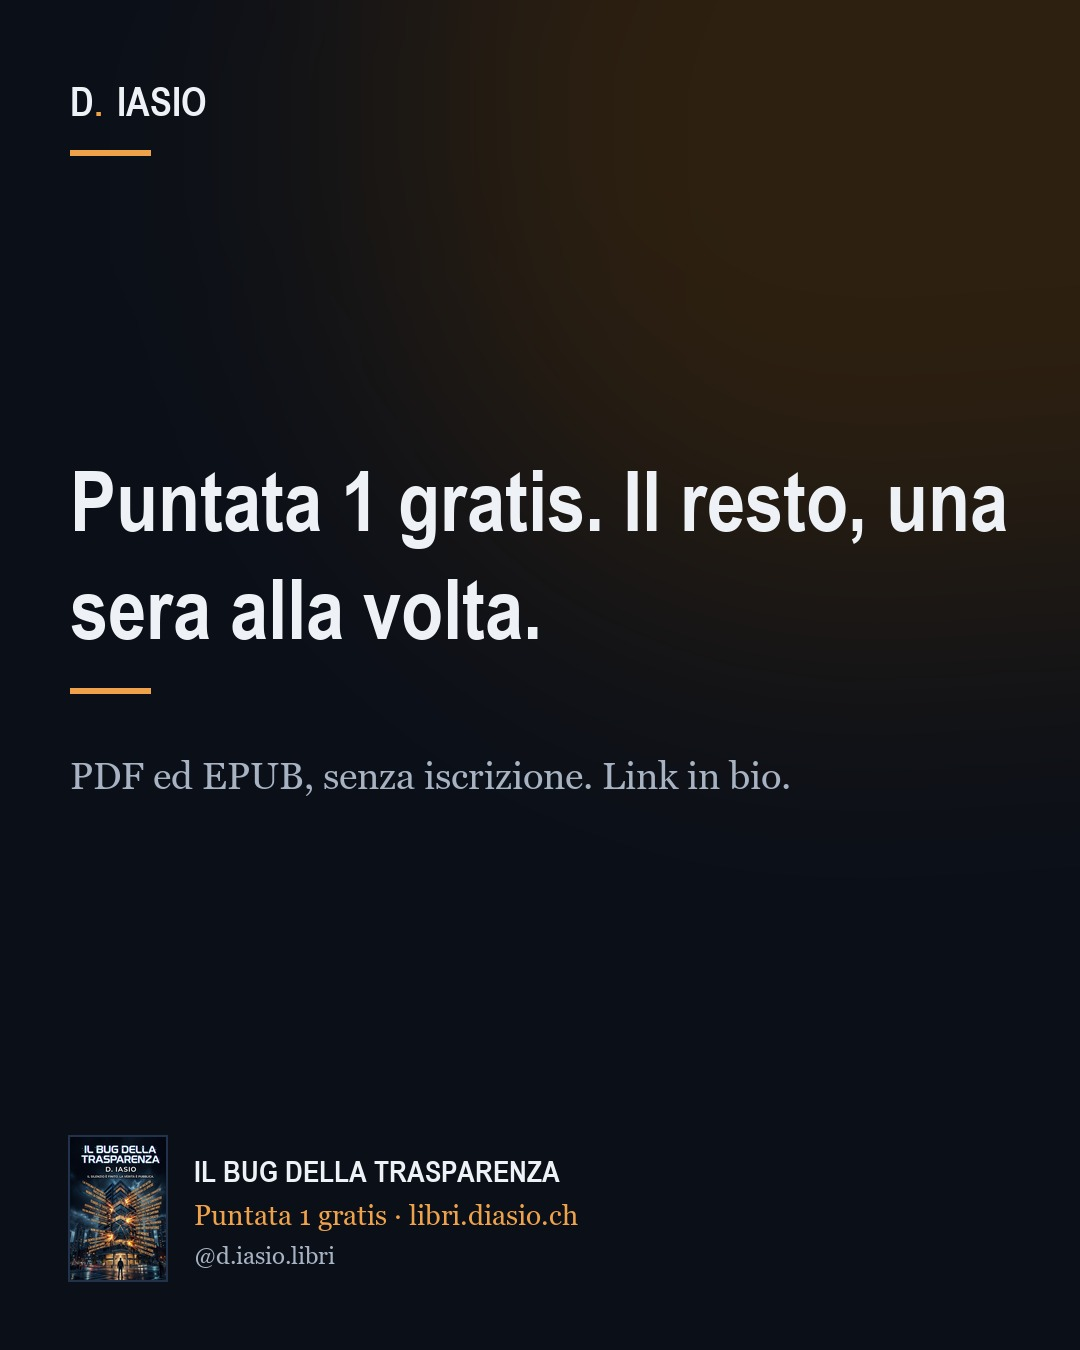
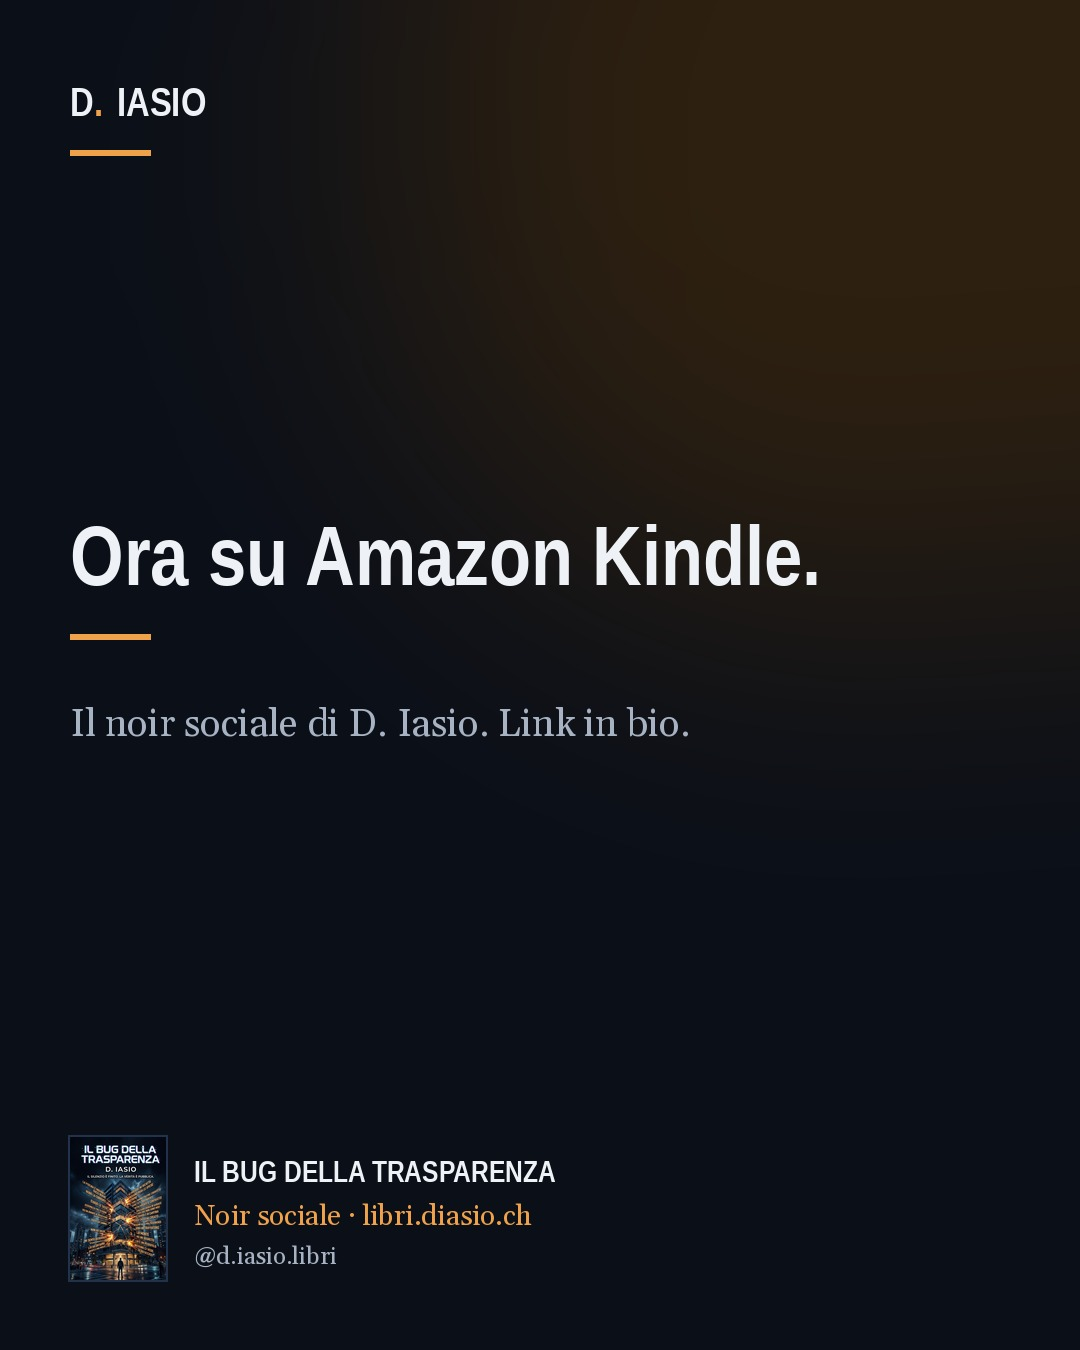
Social: grafiche 07 e 16 con invito a Amazon Kindle (senza puntate) (#37)
* Social: 07-bug-cta e 16-bug-spot con invito a Amazon Kindle

* Generatore: footer e CTA personalizzabili; testi dei post 07 e 16

* Grafiche 07-bug-cta e 16-bug-spot con invito a Amazon Kindle

diff --git a/social/tools/posts.py b/social/tools/posts.py
@@ -40,11 +40,11 @@ POSTS = [
       tags="#privacy #tecnologia #thriller #noir #narrativaitaliana",
       alt="Finta notifica dell’app Meridiana Life: Meridiana Life si è aggiornata. Benvenuti in Trasparenza Meridiana. Il Bug della Trasparenza."),
  dict(id="07-bug-cta", when="2026-10-18 20:00", seg="Lettori digitali (ebook) + amanti delle serie a puntate", book="bug", kind="hook",
-      text="Puntata 1 gratis. Il resto, una sera alla volta.",
-      sub="PDF ed EPUB, senza iscrizione. Link in bio.",
-      caption="Come una serie tv, ma da leggere: otto puntate, una sera alla volta.\nLa Puntata 1 de Il Bug della Trasparenza è gratis, in PDF o EPUB (va bene anche su Kindle). Nessuna iscrizione richiesta.\nLink in bio.",
-      tags="#ebook #kindle #epub #leggeregratis #noir",
-      alt="Grafica scura con la scritta: Puntata 1 gratis. Il resto, una sera alla volta. PDF ed EPUB, link in bio."),
+      text="Ora su Amazon Kindle.", foot="Noir sociale · libri.diasio.ch",
+      sub="Il noir sociale di D. Iasio. Link in bio.",
+      caption="Il Bug della Trasparenza, noir sociale di D. Iasio, è disponibile su Amazon Kindle.\nUn condominio d’élite, un’app che non dovrebbe sapere quello che sa, una giornalista che ha un motivo per essere lì.\nIl link è in bio.",
+      tags="#ebook #kindle #noir #romanzonoir #narrativaitaliana",
+      alt="Grafica scura con la scritta: Ora su Amazon Kindle. Il Bug della Trasparenza, il noir sociale di D. Iasio. Link in bio."),
  dict(id="08-oblio-levia", when="2026-10-20 19:30", seg="Tech/IA + pubblicità e brand", book="oblio", kind="brand", theme="amber",
       text="Levia.", tag="Il peso non è tuo.",
       sub="Lo slogan dell’azienda che estrae il dolore. L’Economia dell’Oblio, Puntata 1.",
@@ -97,8 +97,8 @@ POSTS = [
       tags="#distopia #fantascienza #blackmirror #thrillerpsicologico #narrativaitaliana",
       alt="Grafica scura con il titolo Certificazione di Vuoto e quattro righe sulla scansione semestrale del cervello. L’Economia dell’Oblio."),
  dict(id="16-bug-spot", when="2026-11-08 20:00", seg="Bookstagram (copertina e presentazione)", book="bug", kind="spot",
-      tag="Noir sociale · 8 puntate. Il silenzio è finito. La verità è pubblica.",
-      caption="Il Bug della Trasparenza, di D. Iasio. Noir sociale in otto puntate: un condominio d’élite, un’app che non dovrebbe sapere quello che sa, una giornalista che ha un motivo per essere lì.\nLa Puntata 1 è gratis, in PDF o EPUB. Link in bio.",
+      tag="Un noir sociale di D. Iasio.", cta="Disponibile su Amazon Kindle · link in bio",
+      caption="Il Bug della Trasparenza, di D. Iasio. Noir sociale: un condominio d’élite, un’app che non dovrebbe sapere quello che sa, una giornalista che ha un motivo per essere lì.\nDisponibile su Amazon Kindle. Link in bio.",
       tags="#bookstagram #libriconsigliati #noir #narrativaitaliana #autoreemergente",
       alt="Copertina de Il Bug della Trasparenza: un palazzo notturno attraversato da frasi arancioni."),
  dict(id="17-oblio-strano", when="2026-11-10 19:30", seg="Psicologia/memoria (tono rispettoso)", book="oblio", kind="quote", who=OBL,

diff --git a/social/tools/generate.py b/social/tools/generate.py
@@ -49,7 +49,7 @@ def header(d, theme):
     d.rectangle((70, 150, 150, 155), fill=acc)
 
 
-def footer(im, d, book, theme):
+def footer(im, d, book, theme, line="Puntata 1 gratis · libri.diasio.ch"):
     amber = theme == "amber"
     ink, sub, mut = (DARK, DARK, DMUT) if amber else (INK, AMBER, MUTED)
     cw, ch = 96, 143
@@ -58,7 +58,7 @@ def footer(im, d, book, theme):
     d.rectangle((68, y - 2, 70 + cw + 1, y + ch + 1), outline=DARK if amber else LINE, width=2)
     im.paste(c, (70, y))
     d.text((70 + cw + 28, y + 16), TITLES[book], font=head(30), fill=ink)
-    d.text((70 + cw + 28, y + 62), "Puntata 1 gratis · libri.diasio.ch", font=serifr(28), fill=sub)
+    d.text((70 + cw + 28, y + 62), line, font=serifr(28), fill=sub)
     d.text((70 + cw + 28, y + 104), "@d.iasio.libri", font=serifr(24), fill=mut)
 
 
@@ -189,7 +189,7 @@ def k_spot(im, d, p, theme):
     for ln in wrap(d, p["tag"], tf, W - 160):
         d.text(((W - d.textlength(ln, font=tf)) / 2, yy), ln, font=tf, fill=INK)
         yy += 54
-    cta = "Puntata 1 gratis · link in bio"
+    cta = p.get("cta", "Puntata 1 gratis · link in bio")
     d.text(((W - d.textlength(cta, font=head(34))) / 2, yy + 14), cta, font=head(34), fill=AMBER)
 
 
@@ -224,7 +224,7 @@ def card(p, out):
     header(d, theme)
     KINDS[p["kind"]](im, d, p, theme)
     if p["kind"] not in NOFOOT:
-        footer(im, d, p["book"], theme)
+        footer(im, d, p["book"], theme, p.get("foot", "Puntata 1 gratis · libri.diasio.ch"))
     im.save(out, quality=92, optimize=True)
 
 
